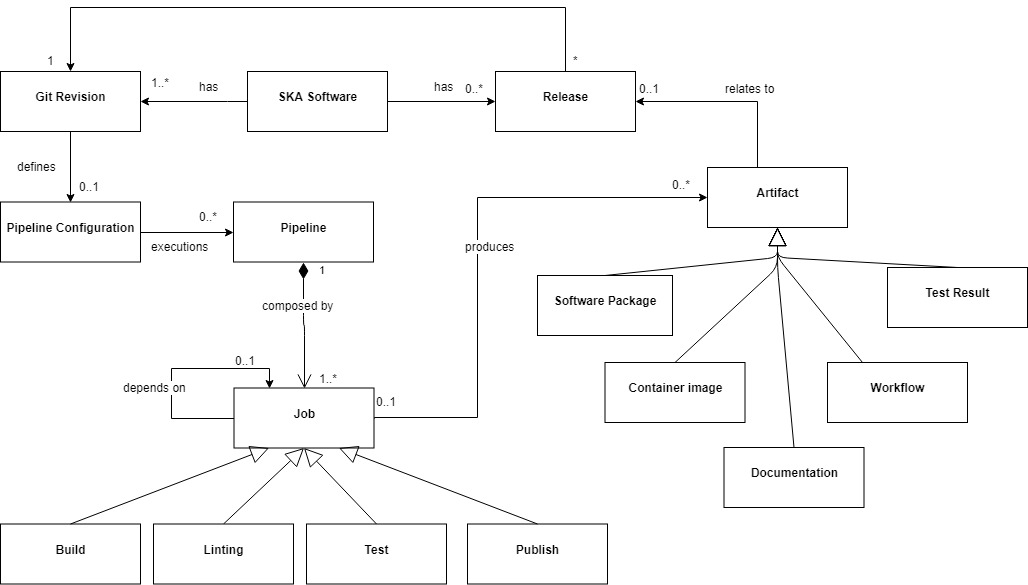
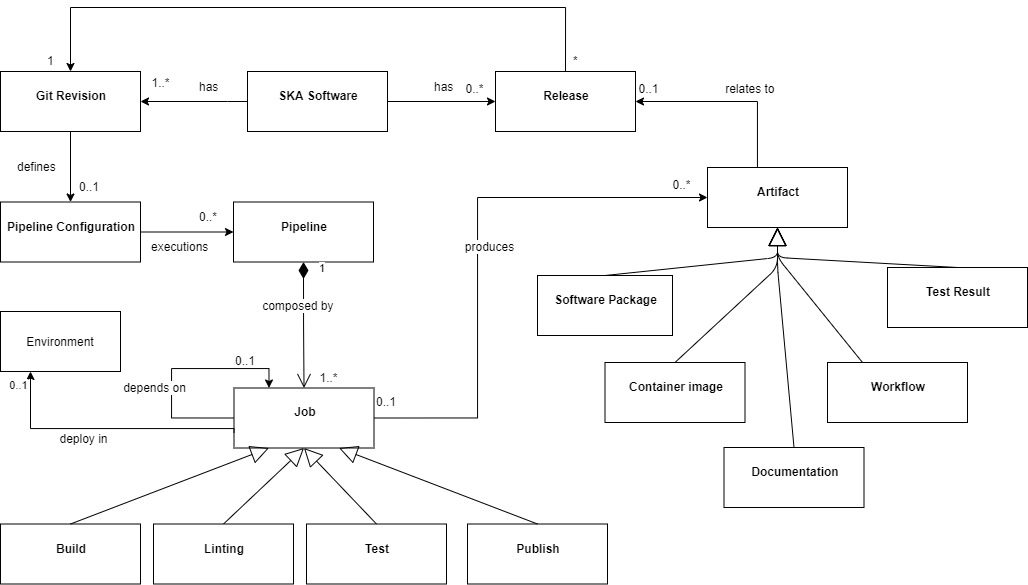
updates

diff --git a/main.tex b/main.tex
@@ -9,13 +9,14 @@
 \title{CI-CD practices with the TANGO-controls framework in the context of the Square Kilometre Array (SKA) telescope project}
 
 \author[a]{Di Carlo M.}
+\author[b]{Yilmaz U.}
 \author[b]{Harding P.}
 \author[a]{Dolci M.}
 
 \affil[a]{INAF Osservatorio Astronomico d'Abruzzo, Teramo, Italy}
 \affil[b]{SKA Organisation, Macclesfield, UK}
 
-\authorinfo{Further author information: (Send correspondence to Di Carlo M.)\\Di Carlo M.: E-mail: matteo.dicarlo@inaf.it\\  Dolci M.: E-mail: mauro.dolci@inaf.it\\ Harding P.: E-mail: P.Harding@skatelescope.org}
+\authorinfo{Further author information: (Send correspondence to Di Carlo M.)\\Di Carlo M.: E-mail: matteo.dicarlo@inaf.it\\  Dolci M.: E-mail: mauro.dolci@inaf.it\\ Harding P.: E-mail: P.Harding@skatelescope.org\\ Yilmaz U.: E-mail: u.yilmaz@skatelescope.org}
 
 % Option to view page numbers
 \pagestyle{empty} % change to \pagestyle{plain} for page numbers   
@@ -73,20 +74,197 @@ The importance of those practices can be summarized in reducing risks of integra
 Continuous deployment goes one step further as every single commit (!) to the software that passes all the stages of the build and test pipeline is deployed into the production environment. 
 
 \section{Infrastructure for CI-CD}
-The system engineering development process has been adopted in the initial design phase of the SKA project in order to reduce the complexity by dividing the project into simpler and easier to resolve elements. For every element of the system, an initial architecture has been developed, which comprises the software modules needed which requires a repository (each of them is a component of the system).
+The \textit{system engineering} development process has been adopted in the initial design phase of the SKA project in order to reduce the complexity by dividing the project into simpler and easier to resolve elements. For every element of the system, an initial architecture has been developed, which comprises the software modules needed which requires a repository (each of them is a component of the system).
 
-Since all components need to get deployed and tested together, the \textit{first decision} taken is on how they need to be packaged.  A container is a standard unit of software that packages up code and all its dependencies so the component runs quickly and reliably across different computing environments. A Docker container image is a lightweight, standalone, executable package of software that includes everything needed to run an application: code (or more in general binary), runtime, system tools, system libraries and settings.
+Since all components need to get deployed and tested together, the first decision taken is on how they need to be packaged.  A container is a standard unit of software that packages up code and all its dependencies so the component runs quickly and reliably across different computing environments. A \textit{Docker container image} is a lightweight, standalone, executable package of software that includes everything needed to run an application: code (or more in general binary), runtime, system tools, system libraries and settings.
 
+The final product will be a containerized application which will be running in a system for managing those kind of applications. In specific the selection made for SKA was \textit{Kubernetes (k8s)} for container orchestration~\cite{kubernetes} and \textit{Helm}~\cite{helm} for packaging k8s applications. In k8s everything is a resources which can be a service, a volume or a simple pod which is the smallest deployable units of computing. On the other hand, helm is a tool for managing Kubernetes deployments with charts where a chart is a package of pre-configured Kubernetes resources. 
 
+Every chart contains at least information concerning the version of the docker image and the pull policy for the orchestration. It also contains the needed information to initialize correctly the TANGO database (configuration of devices). 
 
-Gitlab, k8s, helm, environment, makefile, ska-docker
-
-The infrastructure described in this section is possible thanks to the use of a Makefile in each project that allows to simplify the work on containerization and, overall, the automation of the code building, testing and packaging processes. In fact, with one single command, it is possible to compile the project, generate the docker image and test it by dynamically creating a container for that purpose.  The Makefile also allows to push the docker image to the SKA repository. 
-
-\subsection{Pipeline}
+Another important decision taken for having a good infrastructure for CI-CD is the use of a \textit{Makefile} in each project that allows to simplify the work on containerization and, overall, the automation of the code building, testing and packaging processes. In fact, with one single command, it is possible to compile the project, generate the docker image and test it by dynamically creating a container for that purpose. The Makefile also allows to push the docker image to the SKA repository. The use of makefiles also enables the reusability of same build tool chain in different environments such as local development and CI-CD lifecyles.
 
 \subsection{Subcharts architecture}
 
+\subsubsection{Introduction to helm}
+A chart can have one or more dependencies charts, called sub-charts. According to the helm documentation:
+\begin{itemize}
+    \item a sub-chart is stand-alone (cannot depend on a parent chart),
+    \item a sub-chart cannot access the values of its parent,
+    \item a parent sub-chart can override values for its sub-charts and
+    \item all charts (parent and sub-chart) can access the global values.
+\end{itemize}
+
+Let’s consider two charts, A and B where A depends on B. The file Chart.yaml for the chart A will specify the dependency and in the values file it is possible for chart A to override any value of chart B. Fig.~\ref{fig:a_parent_b} shows how to do it:
+
+\begin{figure}[!htb]
+   \centering
+   \includegraphics*[width=0.8\columnwidth]{A_parent_B}
+   \caption{Chart A parent of chart B}
+   \label{fig:a_parent_b}
+\end{figure}
+
+It is also important to consider the operational aspects of using dependencies which state that when Helm installs/upgrades a chart, the Kubernetes objects from the chart and all its dependencies are
+\begin{itemize}
+    \item aggregated into a single set; then
+    \item sorted by type followed by name; and then
+    \item created/updated in that order.
+\end{itemize}
+This means that if chart A defines the following k8s resources:
+\begin{itemize}
+    \item namespace “A-Namespace”
+    \item statefulset “A-StatefulSet”
+    \item service “A-Service”
+\end{itemize}
+and chart B defines the following k8s resources:
+\begin{itemize}
+    \item namespace “B-Namespace”
+    \item statefulset “B-ReplicaSet”
+    \item service “B-Service”
+\end{itemize}
+Then the result of the helm install command for chart A will be:
+\begin{itemize}
+    \item A-Namespace
+    \item B-Namespace
+    \item A-Service
+    \item B-Service
+    \item B-ReplicaSet
+    \item A-StatefulSet.
+\end{itemize}
+
+\subsubsection{Architecture}
+
+The SKA MVP Product Integration, or SKAMPI~\cite{SKAMPI}, is both the set of software artefacts, and the corresponding repository and continuous integration facilities that allow for the development, testing, and integration of the SKA prototype software systems. It represents the main effort to integrate the components from the different SKA elements with each other, with the goal to provide first deployable versions of SKA software. A partial dependency diagram for the helm charts available within this project is represented in fig.~\ref{fig:skampi}. 
+
+\begin{figure}[!htb]
+   \centering
+   \includegraphics*[width=1\columnwidth]{simple_skampi}
+   \caption{SKAMPI}
+   \label{fig:skampi}
+\end{figure}
+
+Leaving out the details of the specific components of SKA, fig.~\ref{fig:skampi} shows that all charts depend on some shared charts, like tango-base (refer to section \ref{SKA-docker}) and, optionally, archiver (refer to section \ref{SKA-docker}) and webjive.  
+At the moment, this is modelled in the repository SKAMPI where all charts are installed with helm templating instead of the normal installation. There are a number of disadvantages in this model specifically:
+
+\begin{itemize}
+    \item Common testing, one place for all testing with an unclear distinction the various types of tests
+    \item Not easy to find logs
+    \item Same k8s namespace for many deployments
+    \item No versioning: charts are not versioned
+\end{itemize}
+
+Because of the above problems, a new architecture has been selected which enables a single level hierarchy for the shared charts (related to TANGO) and umbrella charts for charts composition (i.e. specific deployment or testing purpose). The rational can be summarized in the following items:
+\begin{itemize}
+    \item every chart can be deployed with its own tango eco-system,
+    \item every chart can have tango-base, webjive and the archiver as dependencies.
+\end{itemize}
+
+Fig. ~\ref{fig:tmc_shared_charts} shows how a generic chart (in this case TMC) which includes the shared charts. Every dependency must have a common condition on it, so that it will be possible to disable the shared charts if they are included in the parent umbrella. For instance if there is the need (for testing purposes) to have the TMC and the OET charts together the result will be fig. ~\ref{fig:tmc_oet_umbrella}.
+
+\begin{figure}[!htb]
+   \centering
+   \includegraphics*[width=0.5\columnwidth]{tmc_shared_charts}
+   \caption{Chart TMC with shared charts}
+   \label{fig:tmc_shared_charts}
+\end{figure}
+
+\begin{figure}[!htb]
+   \centering
+   \includegraphics*[width=0.8\columnwidth]{tmc_oet_umbrella}
+   \caption{Umbrella chart with tmc and oet charts}
+   \label{fig:tmc_oet_umbrella}
+\end{figure}
+
+Fig. ~\ref{fig:umbrella_skampi} is the result of the refactoring of fig. ~\ref{fig:skampi} with the new architecture.
+
+\begin{figure}[!htb]
+   \centering
+   \includegraphics*[width=1\columnwidth]{umbrella_skampi}
+   \caption{Umbrella chart for skampi: initial model refactored}
+   \label{fig:umbrella_skampi}
+\end{figure}
+
+\subsection{Pipeline} \label{pipeline}
+
+In order to bring everything together for a complete CI-CD toolchain, Gitlab~\cite{gitlab} was selected. The data model for a generic SKA software is shown in figure~\ref{fig:pipelinedatamodel}.
+
+\begin{figure}[!htb]
+   \centering
+   \includegraphics*[width=0.8\columnwidth]{dataEntity}
+   \caption{Pipeline definition data model.}
+   \label{fig:pipelinedatamodel}
+\end{figure}
+
+The entry point of the diagram is the Pipeline that is composed by many jobs (i.e. shell scripts). This has been standardised for each project in:
+\begin{itemize}
+    \item Build, where code is compiled and a docker image is created;
+    \item Linting, where code is analysed against a set (or multiple sets) of coding rules in order to check if it follows the best practices decided;
+    \item Test, where the compiled package (and docker image) are tested; tests are grouped into Fast / Medium / Slow / Very Slow categories.
+    \item Publish, where the coding artifacts are published;
+    \item Pages, where test results, documentations and logs are published (the name comes directly by the Gitlab technology). 
+\end{itemize}
+
+At run time, for every change of the SKA software (i.e. a commit in the source code repository - Gitlab) one or more executors (i.e. Gitlab runners) execute all the job for the specific pipeline defined in a yaml file and part of the git revision. Each job can deploy the software in the repository into different environments like testing/staging/production and can produce artifacts (which can be a container image, documentation or test result) stored in an artifact repository. The following diagram, Fig.~\ref{fig:cicdruntime} shows the above concepts.
+
+\begin{figure}[!htb]
+   \centering
+   \includegraphics*[width=0.8\columnwidth]{CICD runtime}
+   \caption{CICD at run time}
+   \label{fig:cicdruntime}
+\end{figure}
+
+\subsection{Testing}
+The most important best practice for CI is testing so the main question now is how a generic component of SKA can be tested with the above architecture?
+In SKA, testing has been split into two distinct types: pre-deployment and post-deployment tests. The deployment happens when a runner execute a job with an environment keyword. By doing so, job is linked to a kubernetes cluster defined for every project in the ska telescope group (and called \textit{syscore}). 
+While the pre-deployment tests (namely unit tests) are all made without the real system to be online, the other ones (namely integration and system tests) needs more than one component to be up and running. 
+SKA is composed by many different modules, each of them with its own repository and different requirements for the components needed for its integration and system testing. For each of them, an umbrella chart has been introduced which enabled the specific component to be deployed together with its requirements.
+In specific, to enable the GitLab pipeline to deploy and test the specific component each repository must:
+\begin{itemize}
+    \item contain at least one helm chart
+    \item have an environment
+    \item have a Makefile for k8s testing
+\end{itemize}
+
+The test job, described in section \ref{pipeline}, is composed by the following steps (all made with the help of a Makefile):
+\begin{itemize}
+    \item install: installs the chart in the namespace specified in the environment
+    \item wait: wait for every container to be running
+    \item test:
+    \begin{itemize}
+        \item Create a container in the namespace specified in the environment
+        \item Run pytests inside the above container
+        \item Return the tests results
+    \end{itemize}
+    \item post test: delete all resources allocated for the tests
+\end{itemize}
+
+The artifacts are the output of the tests and it will have the report both in xml and json but also other information like the pytest output.
+
+\subsection{SKA-docker} \label{SKA-docker}
+One of the most important ska repository is the one called \textit{SKA-docker}~\cite{SKA-docker} and contains the definition of a containerized TANGO environment and two helm charts for installing it in k8s: tango-base and webjive. 
+
+\subsubsection{TANGO-util library chart}
+A library chart is a type of Helm chart that defines chart primitives or definitions which can be shared by Helm templates in other charts. In SKAMPI, many charts are a collections of TANGO device servers so it is possible to harmonize their definition with a library. Fig.~\ref{fig:values_data_model} shows a data model diagram for the harmonized values file.
+
+\begin{figure}[!htb]
+   \centering
+   \includegraphics*[width=0.8\columnwidth]{values_data_model}
+   \caption{Data model for the values file}
+   \label{fig:values_data_model}
+\end{figure}
+
+\section{Conclusion}
+All the decisions taken by the system team try to follow some of the continuous integration suggestion from Martin Fowler’s paper. In particular:
+\begin{itemize}
+    \item For each component of the system, there is only one repository with minimal use of branching that are short lived;
+    \item build, tests and publish of artifacts are automated with the use of few commands;
+    \item Every commit triggers a build in a different machine (a container within the k8s cluster);
+    \item Once the artifacts are built (docker images, helm charts, etc.), the repository SKAMPI will create automatically a new deployment of the system and more tests are done at that level (i.e. system tests);
+    \item Having a common repository (nexus and gitlab page) for the code artifacts and for the test results artifacts make it very easy to download the latest changes from every team and for each component;
+    \item The integration environment is accessible for every developer and, in specific, is a specific namespace in a k8s cluster.
+\end{itemize}
+
+Besides, with the new subcharts architecture integration testing is done within the repositories of teams and brought in the SKAMPI repo when a new version is available making developers free to tests not only their work but also their work in conjunction of the one of another team. 
 
 \acknowledgments % equivalent to \section*{ACKNOWLEDGMENTS}       
  
